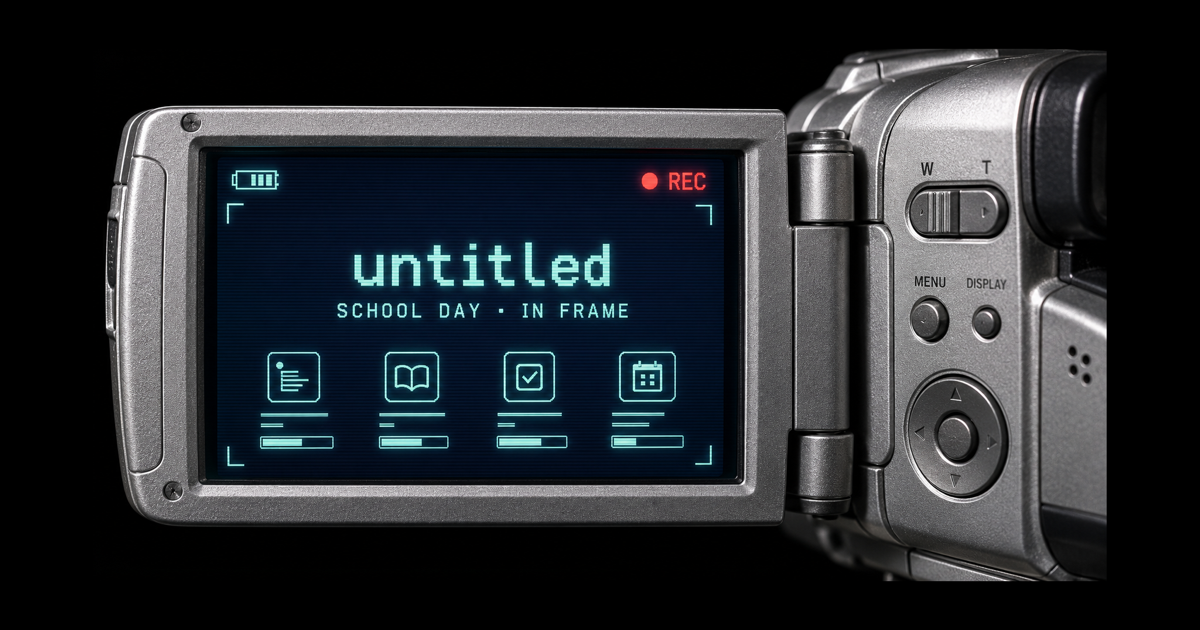
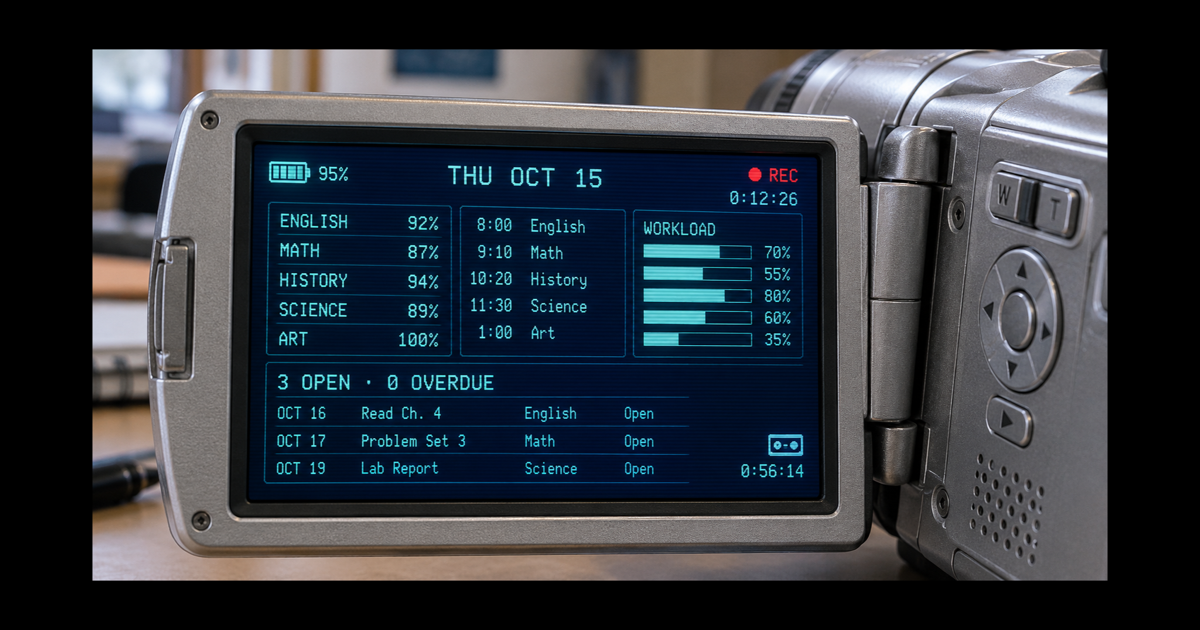
Expand dashboard data screens

diff --git a/app/page.tsx b/app/page.tsx
@@ -1,128 +1,37 @@
 "use client";
-
 import { useRef, useState } from "react";
 
 const assignments = [
-  { course: "AP Biology", title: "Cell respiration lab report", due: "Tonight · 11:59 PM", time: "80 min", color: "mint", progress: 72 },
-  { course: "Precalculus", title: "Section 3.4 problem set", due: "Tomorrow · 8:00 AM", time: "45 min", color: "lilac", progress: 35 },
-  { course: "World History", title: "Industrial Revolution notes", due: "Friday · 1:30 PM", time: "35 min", color: "peach", progress: 0 },
+  { course:"AP Biology",title:"Cell respiration lab report",due:"Tonight · 11:59 PM",time:"80 min",color:"mint",progress:72 },
+  { course:"Precalculus",title:"Section 3.4 problem set",due:"Tomorrow · 8:00 AM",time:"45 min",color:"lilac",progress:35 },
+  { course:"World History",title:"Industrial Revolution notes",due:"Friday · 1:30 PM",time:"35 min",color:"peach",progress:0 },
 ];
+const week=[["MON","12",""],["TUE","13","Math · 4:00"],["WED","14","Bio · 3:30"],["THU","15","History · 5:00"],["FRI","16","Read · 4:30"],["SAT","17",""],["SUN","18","Reset · 11:00"]];
+const grades=[{course:"AP Biology",grade:91,delta:"+2.4",tone:"cyan"},{course:"Precalculus",grade:84,delta:"-1.1",tone:"amber"},{course:"World History",grade:94,delta:"+0.8",tone:"green"},{course:"English 11",grade:88,delta:"+1.6",tone:"cyan"}];
+const classes=[["08:00","Precalculus","Room 214","Quiz Fri"],["09:35","English 11","Room 108","Ch. 6–7"],["11:10","AP Biology","Lab 3","Report due"],["13:20","World History","Room 226","Seminar"]];
 
-const week = [
-  ["MON", "12", ""], ["TUE", "13", "Math · 4:00"], ["WED", "14", "Bio · 3:30"],
-  ["THU", "15", "History · 5:00"], ["FRI", "16", "Read · 4:30"], ["SAT", "17", ""], ["SUN", "18", "Reset · 11:00"],
-];
+function downloadCalendar(){const content=["BEGIN:VCALENDAR","VERSION:2.0","PRODID:-//School Dashboard//EN","BEGIN:VEVENT","UID:school-dashboard-study@example.com","DTSTAMP:20261015T150000Z","DTSTART:20261015T233000Z","DTEND:20261016T005000Z","SUMMARY:AP Biology focus block","DESCRIPTION:Finish analysis and conclusion.","END:VEVENT","END:VCALENDAR"].join("\r\n");const url=URL.createObjectURL(new Blob([content],{type:"text/calendar"}));const a=document.createElement("a");a.href=url;a.download="study-session.ics";a.click();URL.revokeObjectURL(url)}
 
-function downloadCalendar() {
-  const content = ["BEGIN:VCALENDAR", "VERSION:2.0", "PRODID:-//untitled//School Planner//EN", "BEGIN:VEVENT", "UID:untitled-study@example.com", "DTSTAMP:20261015T150000Z", "DTSTART:20261015T233000Z", "DTEND:20261016T005000Z", "SUMMARY:AP Biology focus block", "DESCRIPTION:Finish analysis and conclusion.", "END:VEVENT", "END:VCALENDAR"].join("\r\n");
-  const url = URL.createObjectURL(new Blob([content], { type: "text/calendar" }));
-  const a = document.createElement("a"); a.href = url; a.download = "untitled-study-session.ics"; a.click(); URL.revokeObjectURL(url);
-}
-
-export default function Home() {
-  const [position, setPosition] = useState({ x: -250, y: -160 });
-  const [dragging, setDragging] = useState(false);
-  const [complete, setComplete] = useState<number[]>([]);
-  const [message, setMessage] = useState("");
-  const [reply, setReply] = useState("I’m here when you’re ready. We can plan, explain, or practice together.");
-  const drag = useRef({ x: 0, y: 0, px: 0, py: 0 });
-
-  const jump = (x: number, y: number) => setPosition({ x, y });
-  const startDrag = (e: React.PointerEvent) => {
-    if ((e.target as HTMLElement).closest("button,input,.interactive")) return;
-    drag.current = { x: e.clientX, y: e.clientY, px: position.x, py: position.y };
-    setDragging(true); (e.currentTarget as HTMLElement).setPointerCapture(e.pointerId);
-  };
-  const moveDrag = (e: React.PointerEvent) => {
-    if (!dragging) return;
-    setPosition({ x: drag.current.px + e.clientX - drag.current.x, y: drag.current.py + e.clientY - drag.current.y });
-  };
-  const ask = (text = message) => {
-    if (!text.trim()) return;
-    setMessage(text);
-    setReply("Let’s make this smaller. First, open the assignment and write the exact question at the top. Then spend 10 minutes on only the evidence. I can check your reasoning after that.");
-  };
-
-  return (
-    <main className="viewport">
-      <header className="ipad-bar">
-        <div className="app-name"><i>u</i><span>untitled</span><small>STUDY CAM · 01</small></div>
-        <div className="drag-hint"><span>● REC</span> DRAG TO NAVIGATE <b>SP</b><em>00:42:18</em></div>
-        <div className="header-actions"><button aria-label="Notifications">♢<b /></button><div className="user-dot">DB</div></div>
-      </header>
-
-      <nav className="dock" aria-label="Workspace areas">
-        <button onClick={() => jump(-250, -160)}><span>⌂</span><b>Home</b></button>
-        <button onClick={() => jump(-960, -160)}><span>✓</span><b>Tasks</b></button>
-        <button className="dock-main" onClick={() => ask("Build my best plan for today")}><span>✦</span></button>
-        <button onClick={() => jump(-250, -720)}><span>▦</span><b>Plan</b></button>
-        <button onClick={() => jump(-960, -720)}><span>◎</span><b>Focus</b></button>
-      </nav>
-
-      <div className="mini-map">
-        <button className="map-home" onClick={() => jump(-250, -160)} aria-label="Go to home" />
-        <button className="map-tasks" onClick={() => jump(-960, -160)} aria-label="Go to tasks" />
-        <button className="map-plan" onClick={() => jump(-250, -720)} aria-label="Go to plan" />
-        <button className="map-focus" onClick={() => jump(-960, -720)} aria-label="Go to focus" />
-        <i style={{ transform: `translate(${Math.min(45, Math.max(0, -position.x / 24))}px, ${Math.min(29, Math.max(0, -position.y / 29))}px)` }} />
-      </div>
-
-      <section className={`canvas ${dragging ? "dragging" : ""}`} onPointerDown={startDrag} onPointerMove={moveDrag} onPointerUp={() => setDragging(false)} onPointerCancel={() => setDragging(false)} style={{ transform: `translate3d(${position.x}px, ${position.y}px, 0)` }}>
-        <div className="zone home-zone">
-          <div className="zone-kicker"><span /> STANDBY · OCT 15 2026</div>
-          <h1>Everything you need,<br/><em>in one frame.</em></h1>
-          <p className="intro">You have one important deadline tonight. We already made room for it.</p>
-          <article className="now-card mint-card">
-            <div className="live-pill"><i /> REC · NOW</div>
-            <div className="now-copy"><span>YOUR NEXT STEP</span><h2>Finish your Bio lab report</h2><p>Analysis + conclusion · about 80 minutes</p><div className="now-buttons"><button onClick={() => setReply("Focus mode is ready: 25 minutes of writing, a 5-minute reset, then one final 25-minute block.")}>Start focus</button><button onClick={() => ask("Help me plan my biology lab report")}>Plan with AI</button></div></div>
-            <div className="progress-orb"><div><strong>72%</strong><span>ready</span></div></div>
-          </article>
-          <div className="small-stats">
-            <div><span>Today</span><strong>3</strong><p>things to finish</p></div>
-            <div><span>Focus</span><strong>4h 20m</strong><p>this week · nice work</p></div>
-            <div><span>Streak</span><strong>6 days</strong><p>showing up matters</p></div>
-          </div>
-        </div>
-
-        <div className="zone tasks-zone">
-          <div className="zone-title"><div><span>MEMORY · ASSIGNMENT LOG</span><h2>Assignment index</h2><p>Tap a circle when something is finished.</p></div><button className="round-add">＋</button></div>
-          <div className="task-stack">
-            {assignments.map((item, index) => <article className={`task-card ${item.color} ${complete.includes(index) ? "finished" : ""}`} key={item.title}>
-              <button className="task-check" onClick={() => setComplete((v) => v.includes(index) ? v.filter((n) => n !== index) : [...v,index])}>{complete.includes(index) ? "✓" : ""}</button>
-              <div><span>{item.course}</span><h3>{item.title}</h3><p>{item.due} <i /> {item.time}</p><div className="task-progress"><b style={{ width: `${complete.includes(index) ? 100 : item.progress}%` }} /></div></div>
-              <strong>{complete.includes(index) ? "done" : `${item.progress}%`}</strong>
-            </article>)}
-          </div>
-          <div className="soft-note"><span>☁</span><div><strong>Nothing is overdue.</strong><p>You are catching things before they become stressful.</p></div></div>
-        </div>
-
-        <div className="zone plan-zone">
-          <div className="zone-title"><div><span>PROGRAM AE · SCHEDULE</span><h2>Your week</h2><p>A realistic plan with breathing room.</p></div><button onClick={downloadCalendar} className="calendar-connect">⌁ Apple Calendar</button></div>
-          <div className="week-row">
-            {week.map(([day,date,event]) => <div className={day === "THU" ? "week-day today" : "week-day"} key={day}><span>{day}</span><b>{date}</b>{event && <div><i />{event}</div>}</div>)}
-          </div>
-          <div className="plan-bottom">
-            <article><span>AFTER SCHOOL</span><h3>One protected focus block</h3><p>3:30–4:50 PM · AP Biology</p><button onClick={downloadCalendar}>Add to my calendar →</button></article>
-            <article><span>TONIGHT</span><h3>A soft landing</h3><p>Pack your bag, check tomorrow, then stop.</p><button onClick={() => setReply("Tonight’s reset: pack your bag, charge your iPad, check tomorrow’s first class, then you’re done.")}>Make a 10-min reset →</button></article>
-          </div>
-        </div>
-
-        <div className="zone focus-zone">
-          <div className="focus-room">
-            <span className="zone-kicker"><i /> FOCUS MODE · MANUAL</span>
-            <div className="timer-ring"><div><strong>25:00</strong><span>focus</span></div></div>
-            <h2>One thing at a time.</h2><p>Your notifications are tucked away. Stay with the next paragraph.</p>
-            <div className="focus-controls"><button>Ⅱ</button><button>＋ 5 min</button><button>End</button></div>
-          </div>
-          <div className="ai-bubble interactive">
-            <div className="ai-top"><div>✦</div><p><span>UNTITLED AI</span><strong>Your study helper</strong></p><i /></div>
-            <div className="ai-reply">{reply}</div>
-            <div className="chips"><button onClick={() => ask("Quiz me")}>Quiz me</button><button onClick={() => ask("Explain this")}>Explain this</button><button onClick={() => ask("What next?")}>What next?</button></div>
-            <div className="ask-row"><input value={message} onChange={(e) => setMessage(e.target.value)} onKeyDown={(e) => e.key === "Enter" && ask()} placeholder="Ask anything about school…"/><button onClick={() => ask()}>↑</button></div>
-            <small>Use AI to learn and plan. Double-check facts and submit your own work.</small>
-          </div>
-        </div>
-      </section>
-    </main>
-  );
+export default function Home(){
+  const [position,setPosition]=useState({x:-250,y:-160});const [dragging,setDragging]=useState(false);const [complete,setComplete]=useState<number[]>([]);const [message,setMessage]=useState("");const [reply,setReply]=useState("Ready. Choose quiz, explain, or next task.");const drag=useRef({x:0,y:0,px:0,py:0});
+  const jump=(x:number,y:number)=>setPosition({x,y});
+  const startDrag=(e:React.PointerEvent)=>{if((e.target as HTMLElement).closest("button,input,.interactive"))return;drag.current={x:e.clientX,y:e.clientY,px:position.x,py:position.y};setDragging(true);(e.currentTarget as HTMLElement).setPointerCapture(e.pointerId)};
+  const moveDrag=(e:React.PointerEvent)=>{if(dragging)setPosition({x:drag.current.px+e.clientX-drag.current.x,y:drag.current.py+e.clientY-drag.current.y})};
+  const ask=(text=message)=>{if(!text.trim())return;setMessage(text);setReply("Step 1: open the assignment. Step 2: list the evidence. Step 3: write the first paragraph. Send it here to check the reasoning.")};
+  return <main className="viewport">
+    <header className="ipad-bar"><div className="app-name"><i>DB</i><span>DASHBOARD</span><small>STUDY CAM · 01</small></div><div className="drag-hint"><span>● REC</span> DRAG TO NAVIGATE <b>SP</b><em>00:42:18</em></div><div className="header-actions"><button aria-label="Notifications">♢<b/></button><div className="user-dot">DB</div></div></header>
+    <nav className="dock" aria-label="Dashboard screens">
+      <button onClick={()=>jump(-250,-160)}><span>⌂</span><b>Home</b></button><button onClick={()=>jump(-960,-160)}><span>✓</span><b>Tasks</b></button><button onClick={()=>jump(-1670,-160)}><span>▥</span><b>Grades</b></button><button className="dock-main" onClick={()=>ask("Build my plan for today")}><span>?</span></button><button onClick={()=>jump(-250,-720)}><span>▦</span><b>Plan</b></button><button onClick={()=>jump(-960,-720)}><span>◎</span><b>Focus</b></button><button onClick={()=>jump(-1670,-720)}><span>≡</span><b>Classes</b></button>
+    </nav>
+    <div className="mini-map"><button className="map-home" onClick={()=>jump(-250,-160)} aria-label="Home"/><button className="map-tasks" onClick={()=>jump(-960,-160)} aria-label="Tasks"/><button className="map-plan" onClick={()=>jump(-250,-720)} aria-label="Plan"/><button className="map-focus" onClick={()=>jump(-960,-720)} aria-label="Focus"/><i style={{transform:`translate(${Math.min(45,Math.max(0,-position.x/42))}px,${Math.min(29,Math.max(0,-position.y/35))}px)`}}/></div>
+    <section className={`canvas ${dragging?"dragging":""}`} onPointerDown={startDrag} onPointerMove={moveDrag} onPointerUp={()=>setDragging(false)} onPointerCancel={()=>setDragging(false)} style={{transform:`translate3d(${position.x}px,${position.y}px,0)`}}>
+      <div className="zone home-zone"><div className="zone-kicker"><span/> STANDBY · OCT 15 2026</div><h1>Thursday, October 15</h1><p className="intro">3 assignments open · 1 due tonight · next class 8:00 AM</p><article className="now-card mint-card"><div className="live-pill"><i/> REC · NOW</div><div className="now-copy"><span>NEXT TASK</span><h2>AP Biology lab report</h2><p>Analysis + conclusion · 80 minutes · due 11:59 PM</p><div className="now-buttons"><button onClick={()=>setReply("Timer set: 25 minutes. Break: 5 minutes.")}>Start focus</button><button onClick={()=>ask("Help with biology lab report")}>Open helper</button></div></div><div className="progress-orb"><div><strong>72%</strong><span>done</span></div></div></article><div className="small-stats"><div><span>Open</span><strong>3</strong><p>assignments</p></div><div><span>Focus</span><strong>4h 20m</strong><p>this week</p></div><div><span>Average</span><strong>89.3%</strong><p>all classes</p></div></div></div>
+      <div className="zone tasks-zone"><div className="zone-title"><div><span>MEMORY · ASSIGNMENT LOG</span><h2>Assignments</h2><p>3 open · 0 overdue</p></div><button className="round-add">＋</button></div><div className="task-stack">{assignments.map((item,index)=><article className={`task-card ${item.color} ${complete.includes(index)?"finished":""}`} key={item.title}><button className="task-check" onClick={()=>setComplete(v=>v.includes(index)?v.filter(n=>n!==index):[...v,index])}>{complete.includes(index)?"✓":""}</button><div><span>{item.course}</span><h3>{item.title}</h3><p>{item.due}<i/>{item.time}</p><div className="task-progress"><b style={{width:`${complete.includes(index)?100:item.progress}%`}}/></div></div><strong>{complete.includes(index)?"done":`${item.progress}%`}</strong></article>)}</div><div className="soft-note"><span>●</span><div><strong>OVERDUE: 0</strong><p>Last sync · today 7:42 AM</p></div></div></div>
+      <div className="zone plan-zone"><div className="zone-title"><div><span>PROGRAM AE · SCHEDULE</span><h2>Week schedule</h2><p>October 12–18</p></div><button onClick={downloadCalendar} className="calendar-connect">⌁ Apple Calendar</button></div><div className="week-row">{week.map(([day,date,event])=><div className={day==="THU"?"week-day today":"week-day"} key={day}><span>{day}</span><b>{date}</b>{event&&<div><i/>{event}</div>}</div>)}</div><div className="plan-bottom"><article><span>15:30–16:50</span><h3>AP Biology</h3><p>Lab report · analysis and conclusion</p><button onClick={downloadCalendar}>Add to calendar →</button></article><article><span>20:40–20:50</span><h3>Tomorrow prep</h3><p>Bag · charger · schedule</p><button onClick={()=>setReply("Checklist opened: bag, charger, schedule.")}>Open checklist →</button></article></div></div>
+      <div className="zone focus-zone"><div className="focus-room"><span className="zone-kicker"><i/> FOCUS MODE · MANUAL</span><div className="timer-ring"><div><strong>25:00</strong><span>focus</span></div></div><h2>AP Biology · Report</h2><p>Current block: analysis paragraph</p><div className="focus-controls"><button>Ⅱ</button><button>＋ 5 min</button><button>End</button></div></div><div className="ai-bubble interactive"><div className="ai-top"><div>?</div><p><span>STUDY TOOLS</span><strong>Helper</strong></p><i/></div><div className="ai-reply">{reply}</div><div className="chips"><button onClick={()=>ask("Quiz me")}>Quiz</button><button onClick={()=>ask("Explain this")}>Explain</button><button onClick={()=>ask("What next?")}>Next task</button></div><div className="ask-row"><input value={message} onChange={e=>setMessage(e.target.value)} onKeyDown={e=>e.key==="Enter"&&ask()} placeholder="Enter a question…"/><button onClick={()=>ask()}>↑</button></div><small>Check facts. Submit your own work.</small></div></div>
+      <div className="zone grades-zone"><div className="zone-title"><div><span>PLAYBACK · GRADE LOG</span><h2>Grades</h2><p>Current marking period</p></div><div className="tape-counter">AVG 89.3</div></div><div className="grade-grid">{grades.map(item=><article className={`grade-card ${item.tone}`} key={item.course}><span>{item.course}</span><strong>{item.grade}<i>%</i></strong><b>{item.delta}</b><div><em style={{width:`${item.grade}%`}}/></div></article>)}</div><div className="grade-footer"><div><span>HIGHEST</span><strong>94%</strong><small>World History</small></div><div><span>LOWEST</span><strong>84%</strong><small>Precalculus</small></div><div><span>CHANGE</span><strong>+0.9</strong><small>Since Oct 8</small></div></div></div>
+      <div className="zone classes-zone"><div className="zone-title"><div><span>INDEX · CLASS SCHEDULE</span><h2>Classes</h2><p>Thursday rotation</p></div><div className="battery-readout">▰▰▰▱</div></div><div className="class-list">{classes.map(([time,name,room,note],index)=><article className={index===0?"class-row active":"class-row"} key={name}><time>{time}</time><div><strong>{name}</strong><span>{room}</span></div><b>{note}</b></article>)}</div><div className="data-strip"><span>ATTENDANCE <b>96.8%</b></span><span>ABSENCES <b>2</b></span><span>TARDIES <b>1</b></span></div></div>
+      <div className="zone activity-zone"><div className="zone-title"><div><span>DATA CODE · 7 DAY LOG</span><h2>Workload</h2><p>Completed minutes by day</p></div><div className="tape-counter">SP 04:20</div></div><div className="bar-chart">{[["M",42],["T",68],["W",35],["T",80],["F",22],["S",0],["S",28]].map(([d,v],i)=><div key={i}><span><i style={{height:`${v}px`}}/></span><b>{d}</b></div>)}</div><div className="workload-stats"><div><span>DONE</span><strong>7</strong></div><div><span>ON TIME</span><strong>100%</strong></div><div><span>EST. LEFT</span><strong>2h 40m</strong></div><div><span>EXAMS</span><strong>1</strong></div></div></div>
+    </section>
+  </main>
 }

diff --git a/app/globals.css b/app/globals.css
@@ -38,3 +38,9 @@ html,body{background:#080b0e;color:#182127;font-family:Arial,"Helvetica Neue",sa
 .small-stats div,.soft-note,.task-card,.week-day,.plan-bottom article{border-radius:5px!important;border:1px solid #7b8283!important;background:linear-gradient(#d5d8d5,#aeb3b2)!important;box-shadow:inset 0 1px white,0 2px 2px #7775}.small-stats strong,.task-card h3,.plan-bottom h3{font-family:"Arial Narrow",Arial,sans-serif;font-weight:800;text-transform:uppercase}.small-stats span,.small-stats p,.task-card>div>span,.task-card p{color:#4b555a}.round-add,.calendar-connect{border-radius:50%;background:radial-gradient(circle,#687174,#30373b);border:2px solid #e1e4e1;color:white;box-shadow:0 2px 3px #555}.task-check{border-radius:3px;background:#1a272d;border:2px inset #59666b;color:var(--lcd-green)}.task-progress{background:#7d8586}.task-progress b{background:#248fa0}.soft-note>span{color:#32434b}
 .week-day.today{background:linear-gradient(#b5d5d7,#7ca6aa)!important}.week-day.today>b{border-radius:3px;background:#102630;color:var(--cyan);font-family:var(--font-geist-mono),monospace}.week-day>div{border-radius:2px;background:#14242b;color:var(--lcd-green);font-family:var(--font-geist-mono),monospace}.week-day>div i{background:var(--rec)}
 .focus-zone{gap:12px}.focus-room,.ai-bubble{position:relative;border:9px solid #b9bdba;border-radius:12px;background:var(--lcd);color:#dceff0;box-shadow:0 0 0 1px #f0f1ed,0 12px 35px #000b,inset 0 0 0 2px #020507;padding:18px}.timer-ring{border-radius:4px;background:conic-gradient(var(--cyan) 82%,#183743 0)}.timer-ring:before{border-radius:3px;background:var(--lcd)}.timer-ring strong{font-family:var(--font-geist-mono),monospace;color:var(--cyan)}.timer-ring span{color:#7197a1}.focus-room h2,.ai-top strong{font-family:"Arial Narrow",Arial,sans-serif;text-transform:uppercase;font-weight:800}.focus-controls button,.chips button{border-radius:3px;background:linear-gradient(#5e676b,#30373b);border:1px solid #849093;border-bottom-color:#101416;color:#e9eeee;font-family:var(--font-geist-mono),monospace;text-transform:uppercase}.ai-top>div{border-radius:3px;background:#173641;color:var(--cyan)}.ai-reply{border-radius:2px;background:#0c2a39;color:#9fdce0;font-family:var(--font-geist-mono),monospace}.ask-row{border-radius:3px;background:#06151e;border:1px solid #27505d}.ask-row button{border-radius:2px;background:var(--cyan);color:#071b27}.ai-bubble small{color:#607f88}
+
+.canvas{width:2950px;height:2050px}.grades-zone{left:1720px;top:250px}.classes-zone{left:1720px;top:810px}.activity-zone{left:1010px;top:1370px}.grades-zone:before{content:"TAPE COUNTER · MARKING PERIOD"}.classes-zone:before{content:"INDEX SEARCH · THURSDAY"}.activity-zone:before{content:"DATA CODE · WEEK 42"}.app-name i{font-size:9px;font-style:normal}.app-name span{font-style:normal;letter-spacing:.08em;font-size:11px}.dock button{width:54px}.dock{gap:4px}.tape-counter,.battery-readout{background:#091b24;border:2px inset #637076;border-radius:2px;padding:8px 10px;color:var(--lcd-green);font:700 9px var(--font-geist-mono),monospace;letter-spacing:.08em;box-shadow:inset 0 0 9px #000}.battery-readout{color:var(--cyan);letter-spacing:1px}
+.grade-grid{display:grid;grid-template-columns:1fr 1fr;gap:10px;margin-top:24px}.grade-card{height:125px;padding:14px;background:#0a202b;border:3px solid #333e43;box-shadow:inset 0 0 0 1px #030708,inset 0 0 18px #000;border-radius:4px;color:var(--cyan)}.grade-card>span{display:block;color:#7da7ad;font:700 8px var(--font-geist-mono),monospace;text-transform:uppercase}.grade-card>strong{font:700 34px var(--font-geist-mono),monospace;display:inline-block;margin-top:9px}.grade-card>strong i{font-size:12px;font-style:normal}.grade-card>b{float:right;margin-top:18px;font:700 10px var(--font-geist-mono),monospace;color:var(--lcd-green)}.grade-card.amber>b{color:#ffc66d}.grade-card>div{height:4px;background:#173642;margin-top:9px}.grade-card>div em{display:block;height:100%;background:var(--cyan);box-shadow:0 0 5px var(--cyan)}.grade-footer{display:grid;grid-template-columns:repeat(3,1fr);gap:8px;margin-top:13px}.grade-footer>div{background:linear-gradient(#d4d7d5,#a7acab);border:1px solid #747b7e;padding:10px;border-radius:3px}.grade-footer span,.grade-footer small{display:block;font:700 7px var(--font-geist-mono),monospace;color:#505a5f}.grade-footer strong{display:block;font:800 16px "Arial Narrow",Arial,sans-serif;margin:3px 0}
+.class-list{display:grid;gap:7px;margin-top:23px}.class-row{height:67px;display:grid;grid-template-columns:62px 1fr 78px;align-items:center;background:#0a202b;border:2px solid #344047;border-radius:3px;padding:0 12px;color:#a7dfe2;box-shadow:inset 0 0 12px #000}.class-row.active{border-color:#68969e;box-shadow:inset 0 0 12px #000,0 0 8px #69d8e344}.class-row time{font:700 13px var(--font-geist-mono),monospace;color:var(--lcd-green)}.class-row>div{display:grid;gap:3px}.class-row strong{font:800 12px "Arial Narrow",Arial,sans-serif;text-transform:uppercase}.class-row span{font:700 7px var(--font-geist-mono),monospace;color:#668890}.class-row>b{font:700 7px var(--font-geist-mono),monospace;color:#ffbf72;text-align:right}.data-strip{height:37px;margin-top:10px;background:#252c2f;border:1px solid #687174;display:flex;align-items:center;justify-content:space-around;color:#aeb7b8;font:700 7px var(--font-geist-mono),monospace}.data-strip b{color:var(--cyan);margin-left:5px}
+.bar-chart{height:205px;background:#071b27;border:4px solid #333e43;box-shadow:inset 0 0 0 1px #020506,inset 0 0 25px #000;margin-top:23px;padding:19px 24px;display:flex;align-items:flex-end;justify-content:space-between}.bar-chart>div{width:55px;display:grid;gap:7px;text-align:center}.bar-chart>div>span{height:135px;border-left:1px solid #264954;border-bottom:1px solid #264954;display:flex;align-items:flex-end;justify-content:center}.bar-chart i{display:block;width:28px;background:linear-gradient(#8fe5ea,#247d8c);box-shadow:0 0 6px #67dce7}.bar-chart b{font:700 9px var(--font-geist-mono),monospace;color:#84aeb4}.workload-stats{display:grid;grid-template-columns:repeat(4,1fr);gap:7px;margin-top:12px}.workload-stats>div{background:linear-gradient(#d5d8d5,#a7acab);border:1px solid #777f81;border-radius:3px;padding:10px}.workload-stats span{display:block;font:700 7px var(--font-geist-mono),monospace;color:#555e62}.workload-stats strong{display:block;font:800 16px "Arial Narrow",Arial,sans-serif;margin-top:5px}
+@media(max-width:700px){.grades-zone{left:1450px}.classes-zone{left:1450px}.activity-zone{left:810px;top:1280px}.canvas{width:2450px;height:1900px}.dock button{width:43px}.dock b{font-size:6px}}

diff --git a/app/layout.tsx b/app/layout.tsx
@@ -19,11 +19,11 @@ export async function generateMetadata(): Promise<Metadata> {
   const protocol = requestHeaders.get("x-forwarded-proto") ?? (host.includes("localhost") ? "http" : "https");
   const image = `${protocol}://${host}/og.png`;
   return {
-    title: "untitled — Student Command Center",
-    description: "Plan assignments, protect study time, and learn with an AI copilot.",
+    title: "School Dashboard",
+    description: "Assignments, grades, classes, schedules, and focus data.",
     icons: { icon: "/favicon.svg", shortcut: "/favicon.svg" },
-    openGraph: { title: "untitled — Student Command Center", description: "School day · in frame.", images: [image] },
-    twitter: { card: "summary_large_image", title: "untitled — Student Command Center", description: "School day · in frame.", images: [image] },
+    openGraph: { title: "School Dashboard", description: "Assignments, grades, classes, and study data.", images: [image] },
+    twitter: { card: "summary_large_image", title: "School Dashboard", description: "Assignments, grades, classes, and study data.", images: [image] },
   };
 }
 
